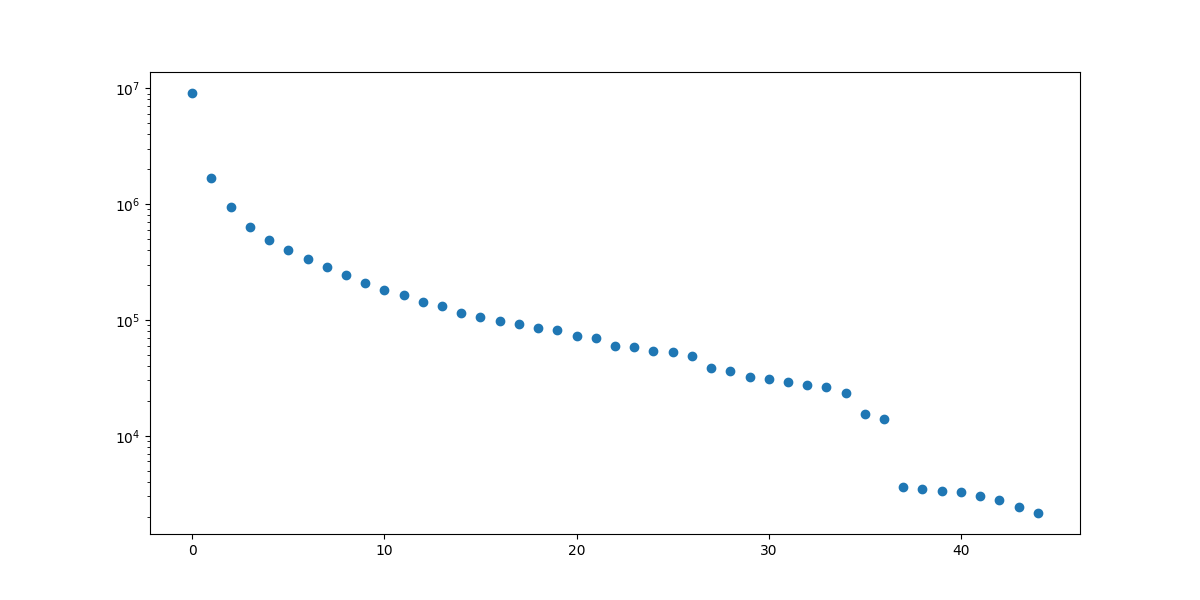
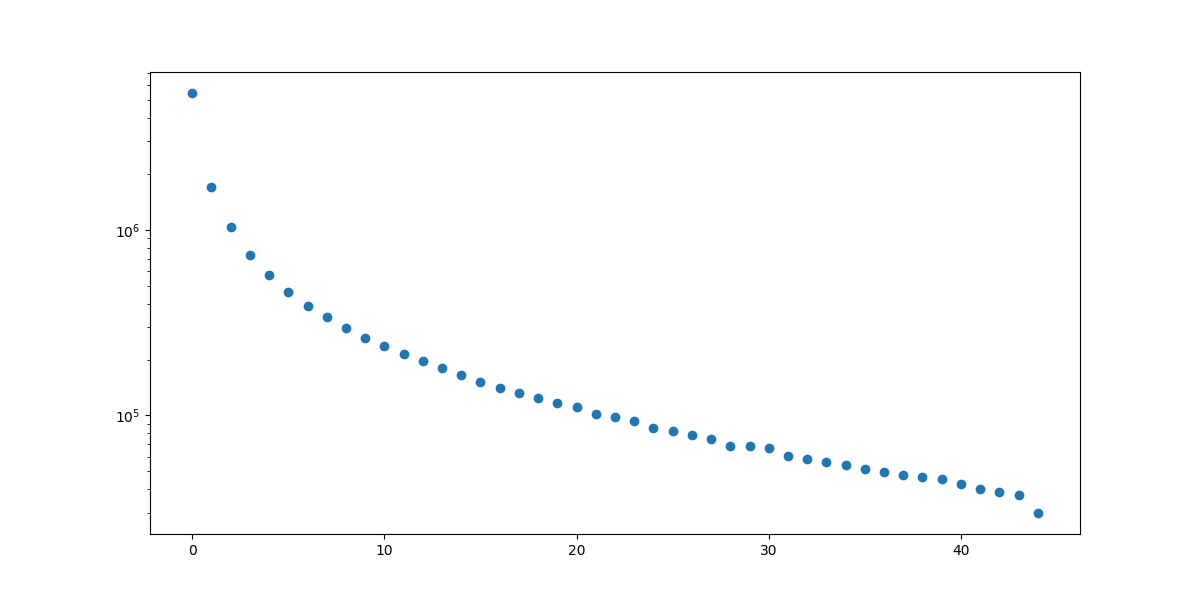
work on plotting figs with condNUm

diff --git a/main.py b/main.py
@@ -30,7 +30,7 @@ coeff = 0.05
     make a plot with conditionnumber on y axis and layers on x axis, 
     with stable measurment numbers
 """
-#cond is max(s_i)/min
+# #cond is max(s_i)/min
 # min_m = 15
 # max_m = 180
 # max_l = 90
@@ -49,8 +49,8 @@ coeff = 0.05
 #         ATA = np.matmul(A.T, A)
 #         ATAu, ATAs, ATAvh = np.linalg.svd(ATA)
 #         Au, As, Avh = np.linalg.svd(A)
-#         cond_A[j,i]= np.linalg.cond(A,p=2)
-#         cond_ATA[j,i] = np.linalg.cond(ATA,p=2)
+#         cond_A[j,i]= np.max(As)/np.min(As)
+#         cond_ATA[j,i] = np.max(ATAs)/np.min(ATAs)
 #
 #
 # #cond_A[cond_A == inf] = np.nan
@@ -95,8 +95,9 @@ coeff = 0.05
 #         ATA = np.matmul(A.T, A)
 #         ATAu, ATAs, ATAvh = np.linalg.svd(ATA)
 #         Au, As, Avh = np.linalg.svd(A)
-#         cond_A[j,i]= np.linalg.cond(A,p=2)
-#         cond_ATA[j,i] = np.linalg.cond(ATA,p=2)
+#         cond_A[j,i]=  np.max(As)/np.min(As)
+#         cond_ATA[j,i] =  np.max(ATAs)/np.min(ATAs)
+#
 #
 #
 # #cond_A[cond_A == inf] = np.nan
@@ -170,20 +171,15 @@ layers = np.linspace(min_h, max_h,num_layers+1)
 meas_ang = min_ang + ((max_ang - min_ang) * np.exp(coeff * (np.linspace(0, int(num_meas) - 1, int(num_meas)+1) - (int(num_meas) - 1))))
 #meas_ang = np.linspace(min_ang, max_ang, num_meas+ 1)
 
-
 A, tang_heights = gen_forward_map(meas_ang[0:-1],layers,obs_height,R)
-
-fig, axs = plt.subplots(1,1,figsize=(12,6))
-plt.scatter(range(num_meas),tang_heights)
-plt.savefig('tang_h_exp.png')
-plt.show()
-
-
 Au, As, Avh = np.linalg.svd(A)
 ATA = np.matmul(A.T,A)
 #condition number for A
-cond_A = np.linalg.cond(A)
+cond_A =  np.max(As)/np.min(As)
 print("normal: " + str(orderOfMagnitude(cond_A)))
+
+
+
 #to test that we have the same dr distances
 tot_r = np.zeros(num_meas)
 #calculate total length
@@ -191,15 +187,63 @@ for j in range(0,num_meas):
     tot_r[j] = 2*np.sqrt( (layers[-1] + R)**2 - (tang_heights[j] + R )**2 )
 print('Distance trhough layers check: ' + str(np.allclose( sum(A.T), tot_r)))
 
+#dont consider last h_val as we have layers from lowest h_val up to second highest
+ATAu, ATAs, ATAvh = np.linalg.svd(ATA)#plot_svd(ATA, layers[0:-1])
+print("ATA: " + str(orderOfMagnitude(np.max(np.sqrt(ATAs))/np.min(np.sqrt(ATAs)))))
+# #plot sing vec and sing vals
+fig, axs = plt.subplots(1,2,figsize=(12,6))
+axs[0].scatter(range(num_meas),tang_heights)
+#axs.title('Measurement Setup with Conditonnumber for Forward map '+  str(cond_A))
+axs[0].set_xlabel('Number of Measurements')
+axs[0].set_ylabel('Height in km')
+axs[1].scatter(range(0,num_layers),As)
+fig.suptitle('Singular values of A with Conditionnumber ' + str(np.around(cond_A)))
+axs[1].set_yscale('log')
+axs[1].set_ylabel('Value')
+axs[1].set_xlabel('Index')
+plt.savefig('ExpScalExp.png')
+plt.show()
+
+
+#find best configuration of layers and num_meas
+#so that cond(A) is not inf
+num_meas = 100
+num_layers = 45
+layers = np.linspace(min_h, max_h,num_layers+1)
+#meas_ang = min_ang + ((max_ang - min_ang) * np.exp(coeff * (np.linspace(0, int(num_meas) - 1, int(num_meas)+1) - (int(num_meas) - 1))))
+meas_ang = np.linspace(min_ang, max_ang, num_meas+ 1)
+
+A, tang_heights = gen_forward_map(meas_ang[0:-1],layers,obs_height,R)
+Au, As, Avh = np.linalg.svd(A)
+ATA = np.matmul(A.T,A)
+#condition number for A
+cond_A =  np.max(As)/np.min(As)
+print("normal: " + str(orderOfMagnitude(cond_A)))
+
+
+
+#to test that we have the same dr distances
+tot_r = np.zeros(num_meas)
+#calculate total length
+for j in range(0,num_meas):
+    tot_r[j] = 2*np.sqrt( (layers[-1] + R)**2 - (tang_heights[j] + R )**2 )
+print('Distance trhough layers check: ' + str(np.allclose( sum(A.T), tot_r)))
 
 #dont consider last h_val as we have layers from lowest h_val up to second highest
 ATAu, ATAs, ATAvh = np.linalg.svd(ATA)#plot_svd(ATA, layers[0:-1])
 print("ATA: " + str(orderOfMagnitude(np.max(np.sqrt(ATAs))/np.min(np.sqrt(ATAs)))))
 # #plot sing vec and sing vals
-fig, axs = plt.subplots(1,1,figsize=(12,6))
-axs.set_yscale('log')
-plt.scatter(range(0,num_layers),ATAs)
-plt.savefig('SingVal_ATA_exp.png')
+fig, axs = plt.subplots(1,2,figsize=(12,6))
+axs[0].scatter(range(num_meas),tang_heights)
+#axs.title('Measurement Setup with Conditonnumber for Forward map '+  str(cond_A))
+axs[0].set_xlabel('Number of Measurements')
+axs[0].set_ylabel('Height in km')
+axs[1].scatter(range(0,num_layers),As)
+fig.suptitle('Singular values of A with Conditionnumber ' + str(np.around(cond_A)))
+axs[1].set_yscale('log')
+axs[1].set_ylabel('Value')
+axs[1].set_xlabel('Index')
+plt.savefig('ExpScalLin.png')
 plt.show()
 
 
@@ -233,7 +277,8 @@ plt.savefig('SingVal_B_exp.png')
 plt.show()
 
 #condition number for B
-cond_B = np.linalg.cond(B)
+cond_B =  np.max(Bs)/np.min(Bs)
+
 print("normal: " + str(orderOfMagnitude(cond_B)))
 
 
